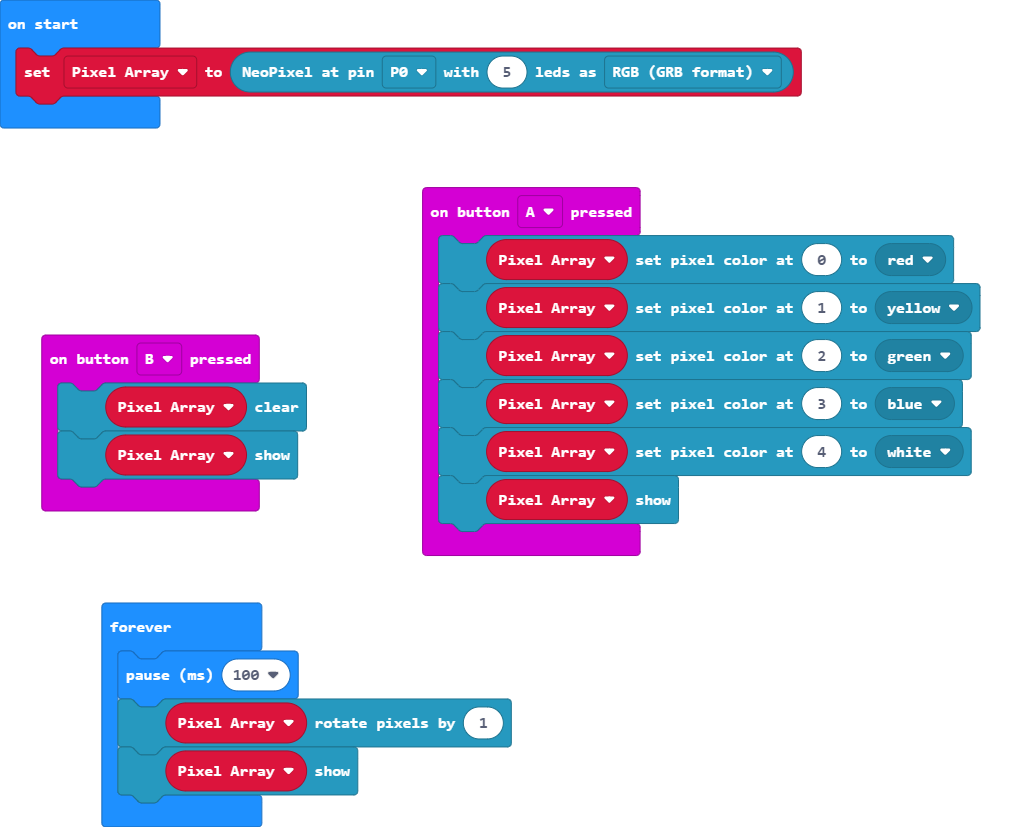
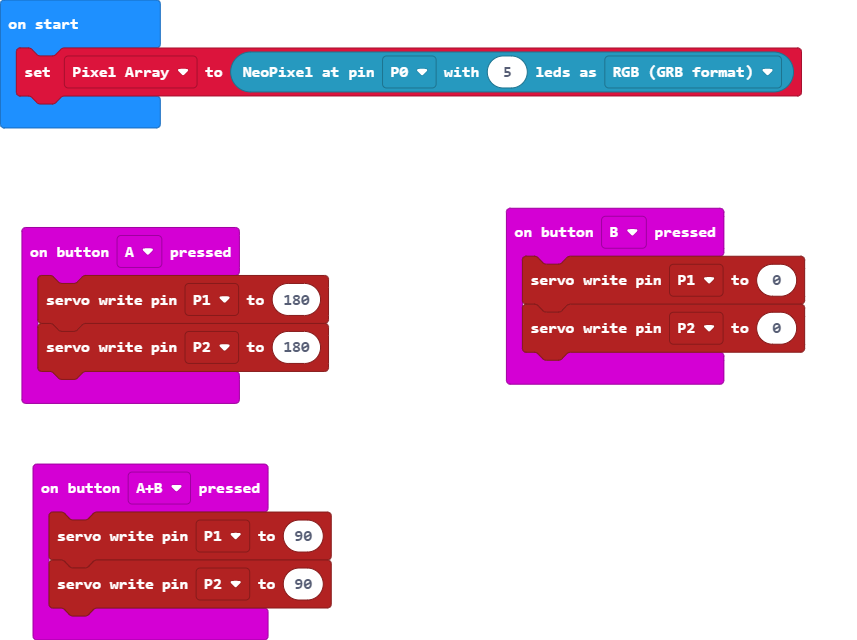
lekcja 4

diff --git a/main.ts b/main.ts
@@ -1,19 +1,13 @@
 input.onButtonPressed(Button.A, function () {
-    Pixel_Array.setPixelColor(0, neopixel.colors(NeoPixelColors.Red))
-    Pixel_Array.setPixelColor(1, neopixel.colors(NeoPixelColors.Yellow))
-    Pixel_Array.setPixelColor(2, neopixel.colors(NeoPixelColors.Green))
-    Pixel_Array.setPixelColor(3, neopixel.colors(NeoPixelColors.Blue))
-    Pixel_Array.setPixelColor(4, neopixel.colors(NeoPixelColors.White))
-    Pixel_Array.show()
+    pins.servoWritePin(AnalogPin.P1, 180)
+    pins.servoWritePin(AnalogPin.P2, 180)
+})
+input.onButtonPressed(Button.AB, function () {
+    pins.servoWritePin(AnalogPin.P1, 90)
+    pins.servoWritePin(AnalogPin.P2, 90)
 })
 input.onButtonPressed(Button.B, function () {
-    Pixel_Array.clear()
-    Pixel_Array.show()
+    pins.servoWritePin(AnalogPin.P1, 0)
+    pins.servoWritePin(AnalogPin.P2, 0)
 })
-let Pixel_Array: neopixel.Strip = null
-Pixel_Array = neopixel.create(DigitalPin.P0, 5, NeoPixelMode.RGB)
-basic.forever(function () {
-    basic.pause(100)
-    Pixel_Array.rotate(1)
-    Pixel_Array.show()
-})
+let Pixel_Array = neopixel.create(DigitalPin.P0, 5, NeoPixelMode.RGB)
